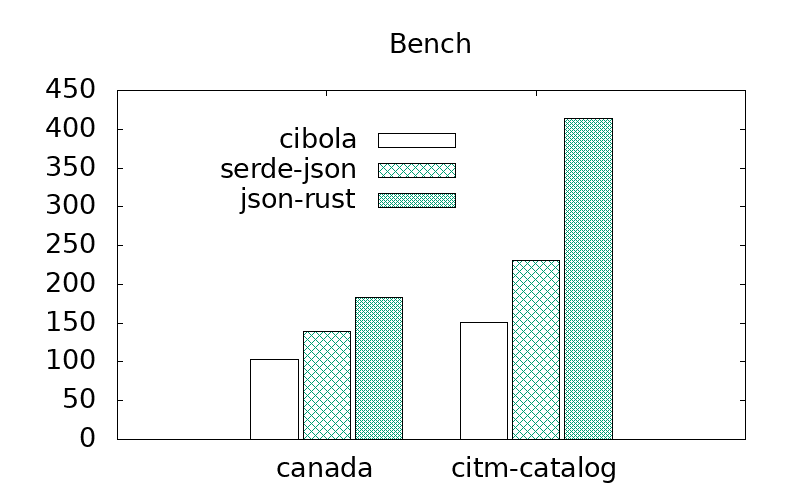
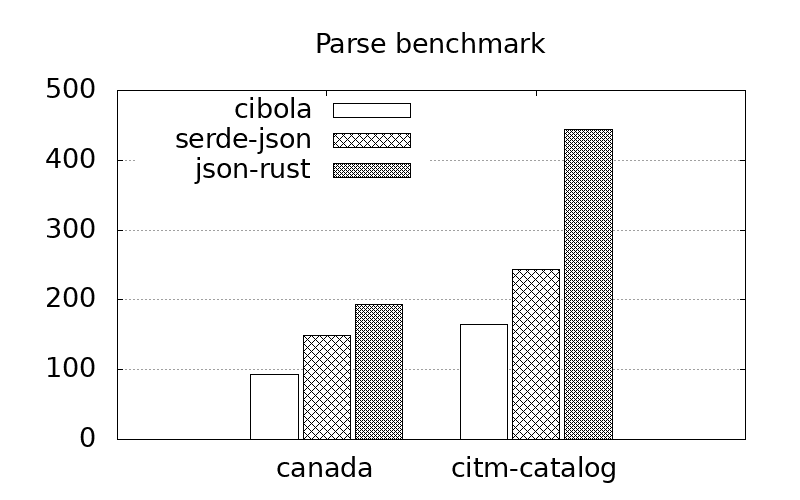
remove old benches, added plot script

diff --git a/benches/parse.rs b/benches/parse.rs
@@ -9,7 +9,7 @@ use criterion::Throughput;
 use std::fs::File;
 use std::io::prelude::*;
 
-use cibola::json::JSONValue;
+use cibola;
 
 use json;
 
@@ -28,7 +28,7 @@ fn file_to_str(path: &'static str) -> String {
 fn parse_json(path: &'static str) {
     let txt = file_to_str(path);
 
-    if let Err(e) = JSONValue::from_str(&txt) {
+    if let Err(e) = cibola::json::from_str(&txt) {
         panic!("Cibola failed with: {}", e);
     }
 }

diff --git a/README.md b/README.md
@@ -7,27 +7,27 @@ A json toy parser
 ![benchmark-image](benches/current_bench.png)
 
 ```
-parsing/CIBOLA::canada  time:   [20.725 ms 20.924 ms 21.120 ms]
-                        thrpt:  [101.65 MiB/s 102.60 MiB/s 103.58 MiB/s]
+parsing/CIBOLA::canada  time:   [23.151 ms 23.212 ms 23.287 ms]
+                        thrpt:  [92.187 MiB/s 92.485 MiB/s 92.728 MiB/s]
 
 parsing/CIBOLA::citm_catalog
-                        time:   [14.171 ms 14.259 ms 14.354 ms]
-                        thrpt:  [149.56 MiB/s 150.56 MiB/s 151.49 MiB/s]
+                        time:   [12.958 ms 13.003 ms 13.049 ms]
+                        thrpt:  [164.51 MiB/s 165.10 MiB/s 165.67 MiB/s]
 
 parsing/serde_json::canada
-                        time:   [15.307 ms 15.458 ms 15.655 ms]
-                        thrpt:  [137.13 MiB/s 138.88 MiB/s 140.24 MiB/s]
+                        time:   [14.293 ms 14.347 ms 14.389 ms]
+                        thrpt:  [149.20 MiB/s 149.63 MiB/s 150.20 MiB/s]
 
 parsing/serde_json::citm_catalog
-                        time:   [9.1479 ms 9.3021 ms 9.4699 ms]
-                        thrpt:  [226.69 MiB/s 230.78 MiB/s 234.67 MiB/s]
+                        time:   [8.7627 ms 8.7905 ms 8.8167 ms]
+                        thrpt:  [243.49 MiB/s 244.21 MiB/s 244.99 MiB/s]
 
 parsing/json-rust::canada
-                        time:   [11.673 ms 11.735 ms 11.819 ms]
-                        thrpt:  [181.63 MiB/s 182.94 MiB/s 183.91 MiB/s]
+                        time:   [11.071 ms 11.093 ms 11.124 ms]
+                        thrpt:  [192.98 MiB/s 193.52 MiB/s 193.91 MiB/s]
 
 parsing/json-rust::citm_catalog
-                        time:   [5.0979 ms 5.1819 ms 5.2747 ms]
-                        thrpt:  [407.00 MiB/s 414.28 MiB/s 421.11 MiB/s]
+                        time:   [4.8286 ms 4.8396 ms 4.8522 ms]
+                        thrpt:  [442.43 MiB/s 443.59 MiB/s 444.60 MiB/s]
 ```
 
